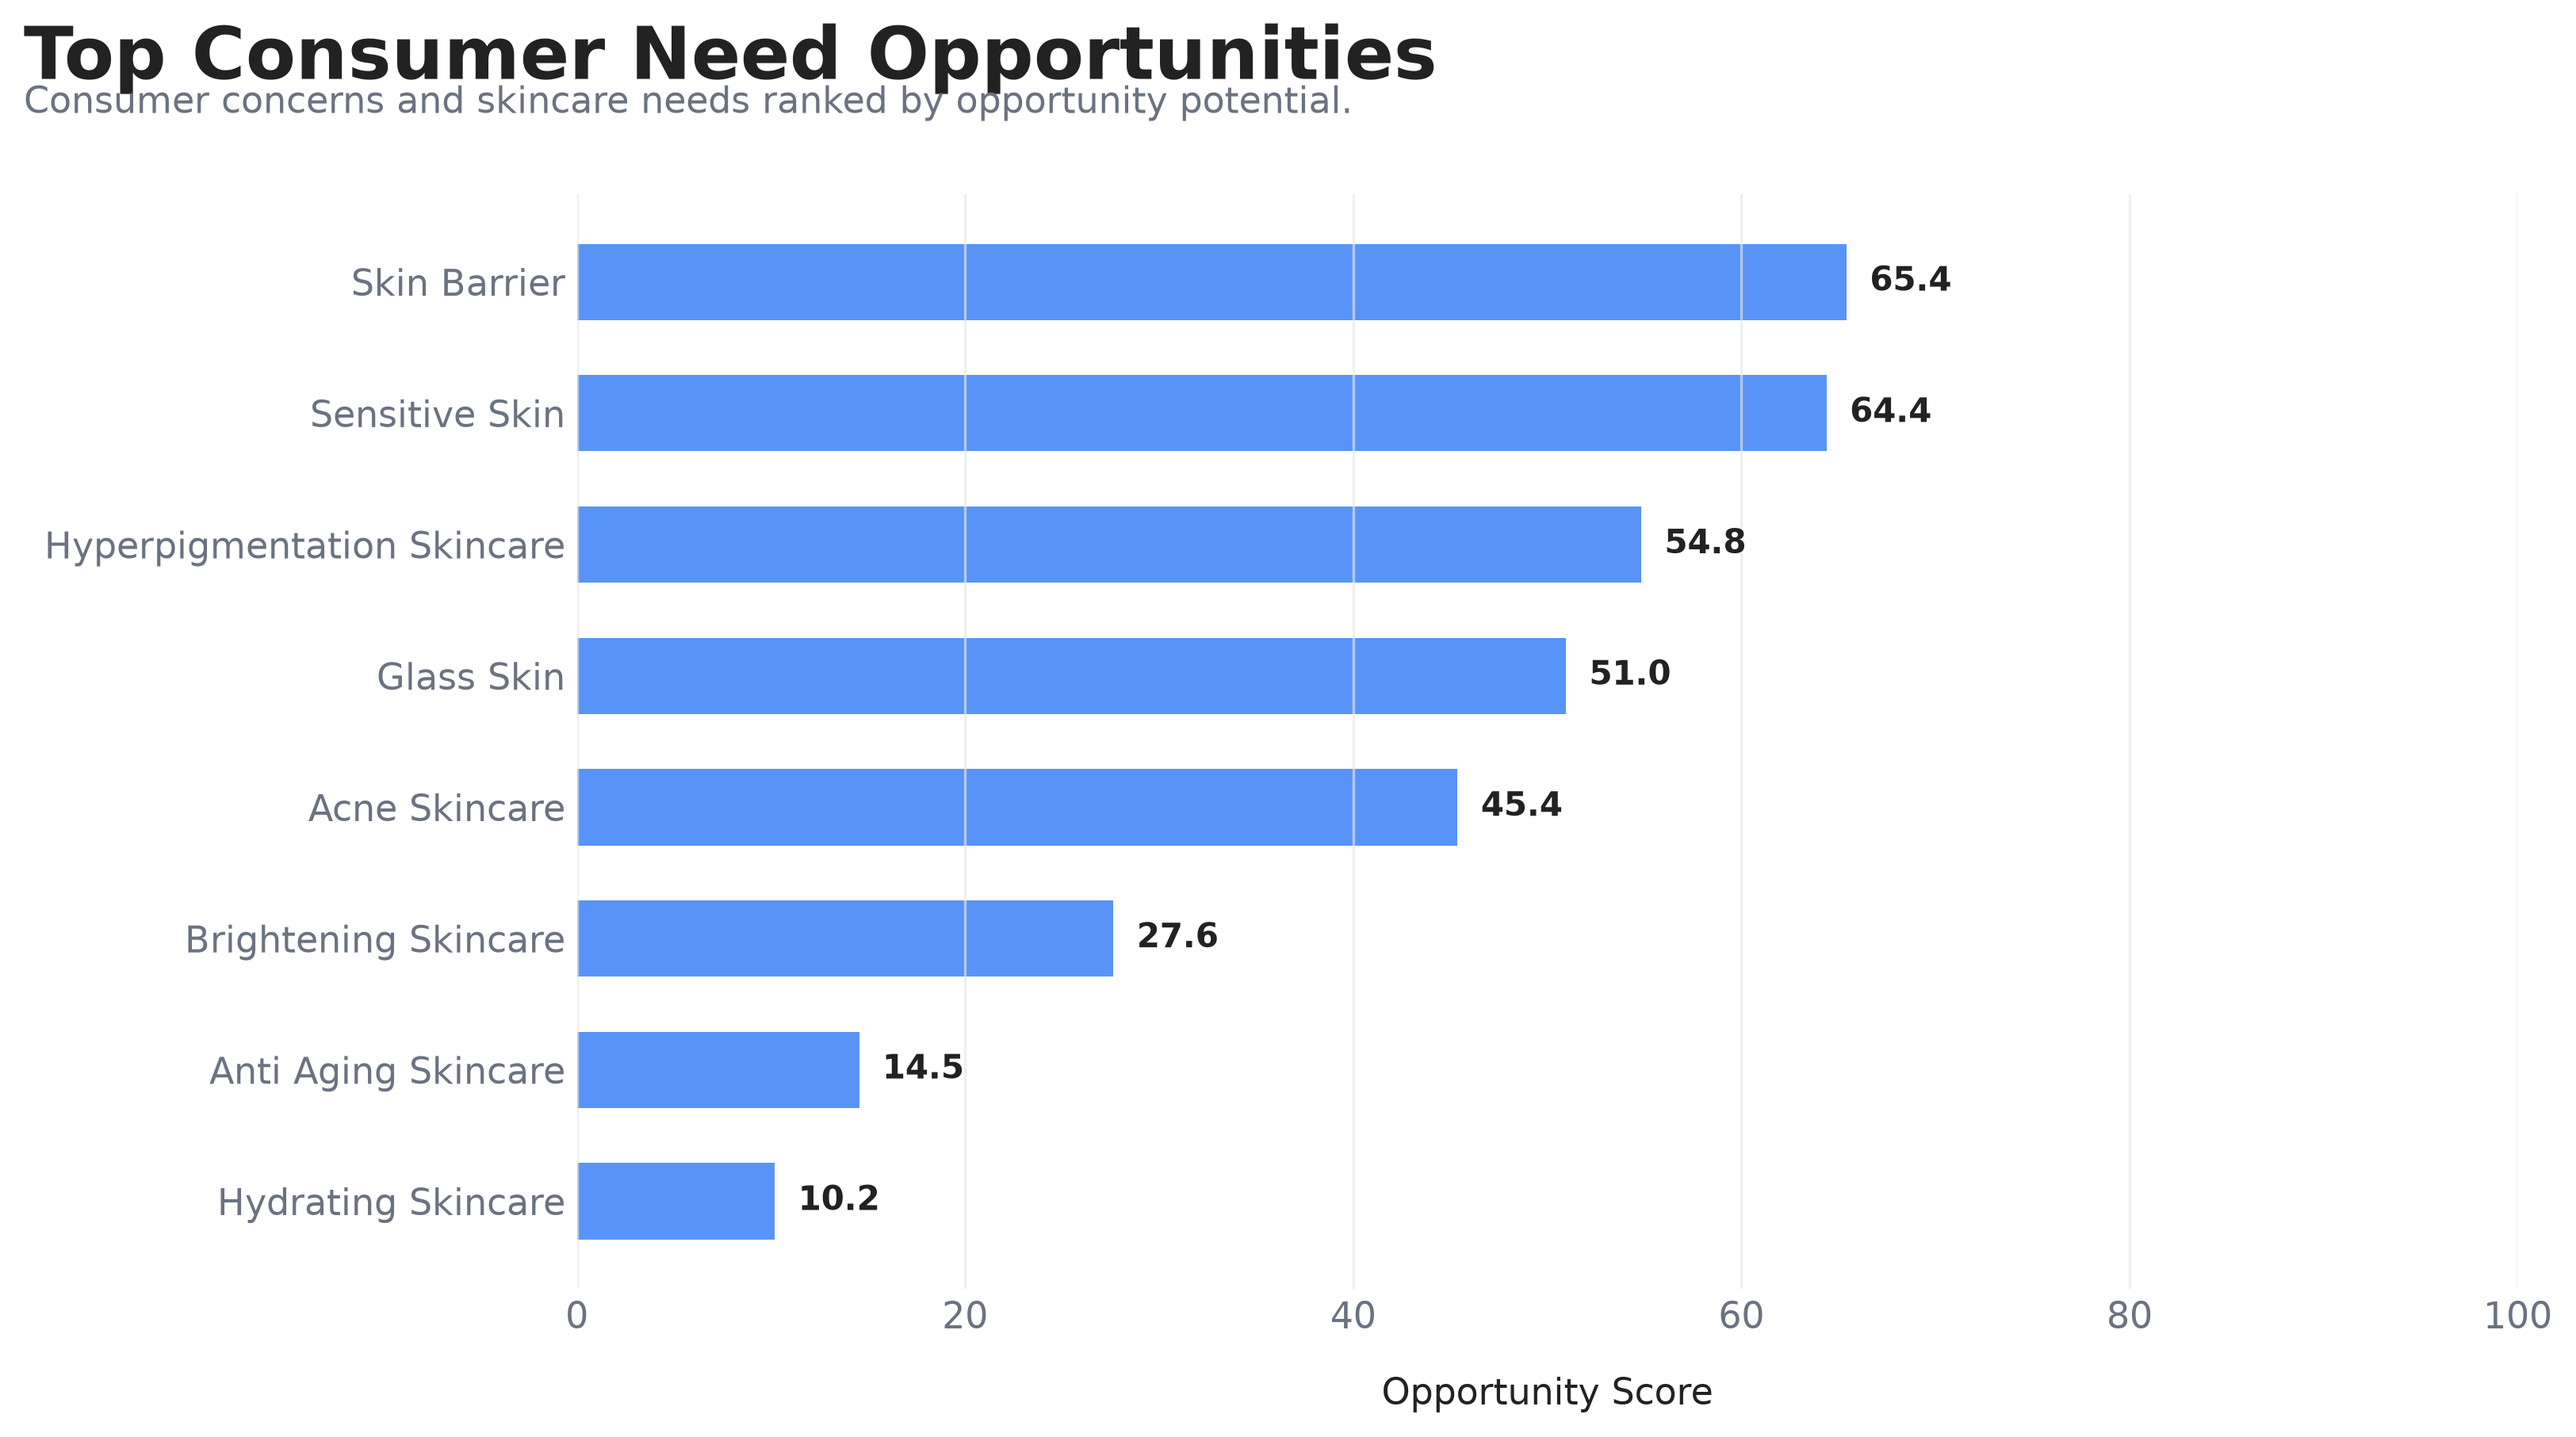
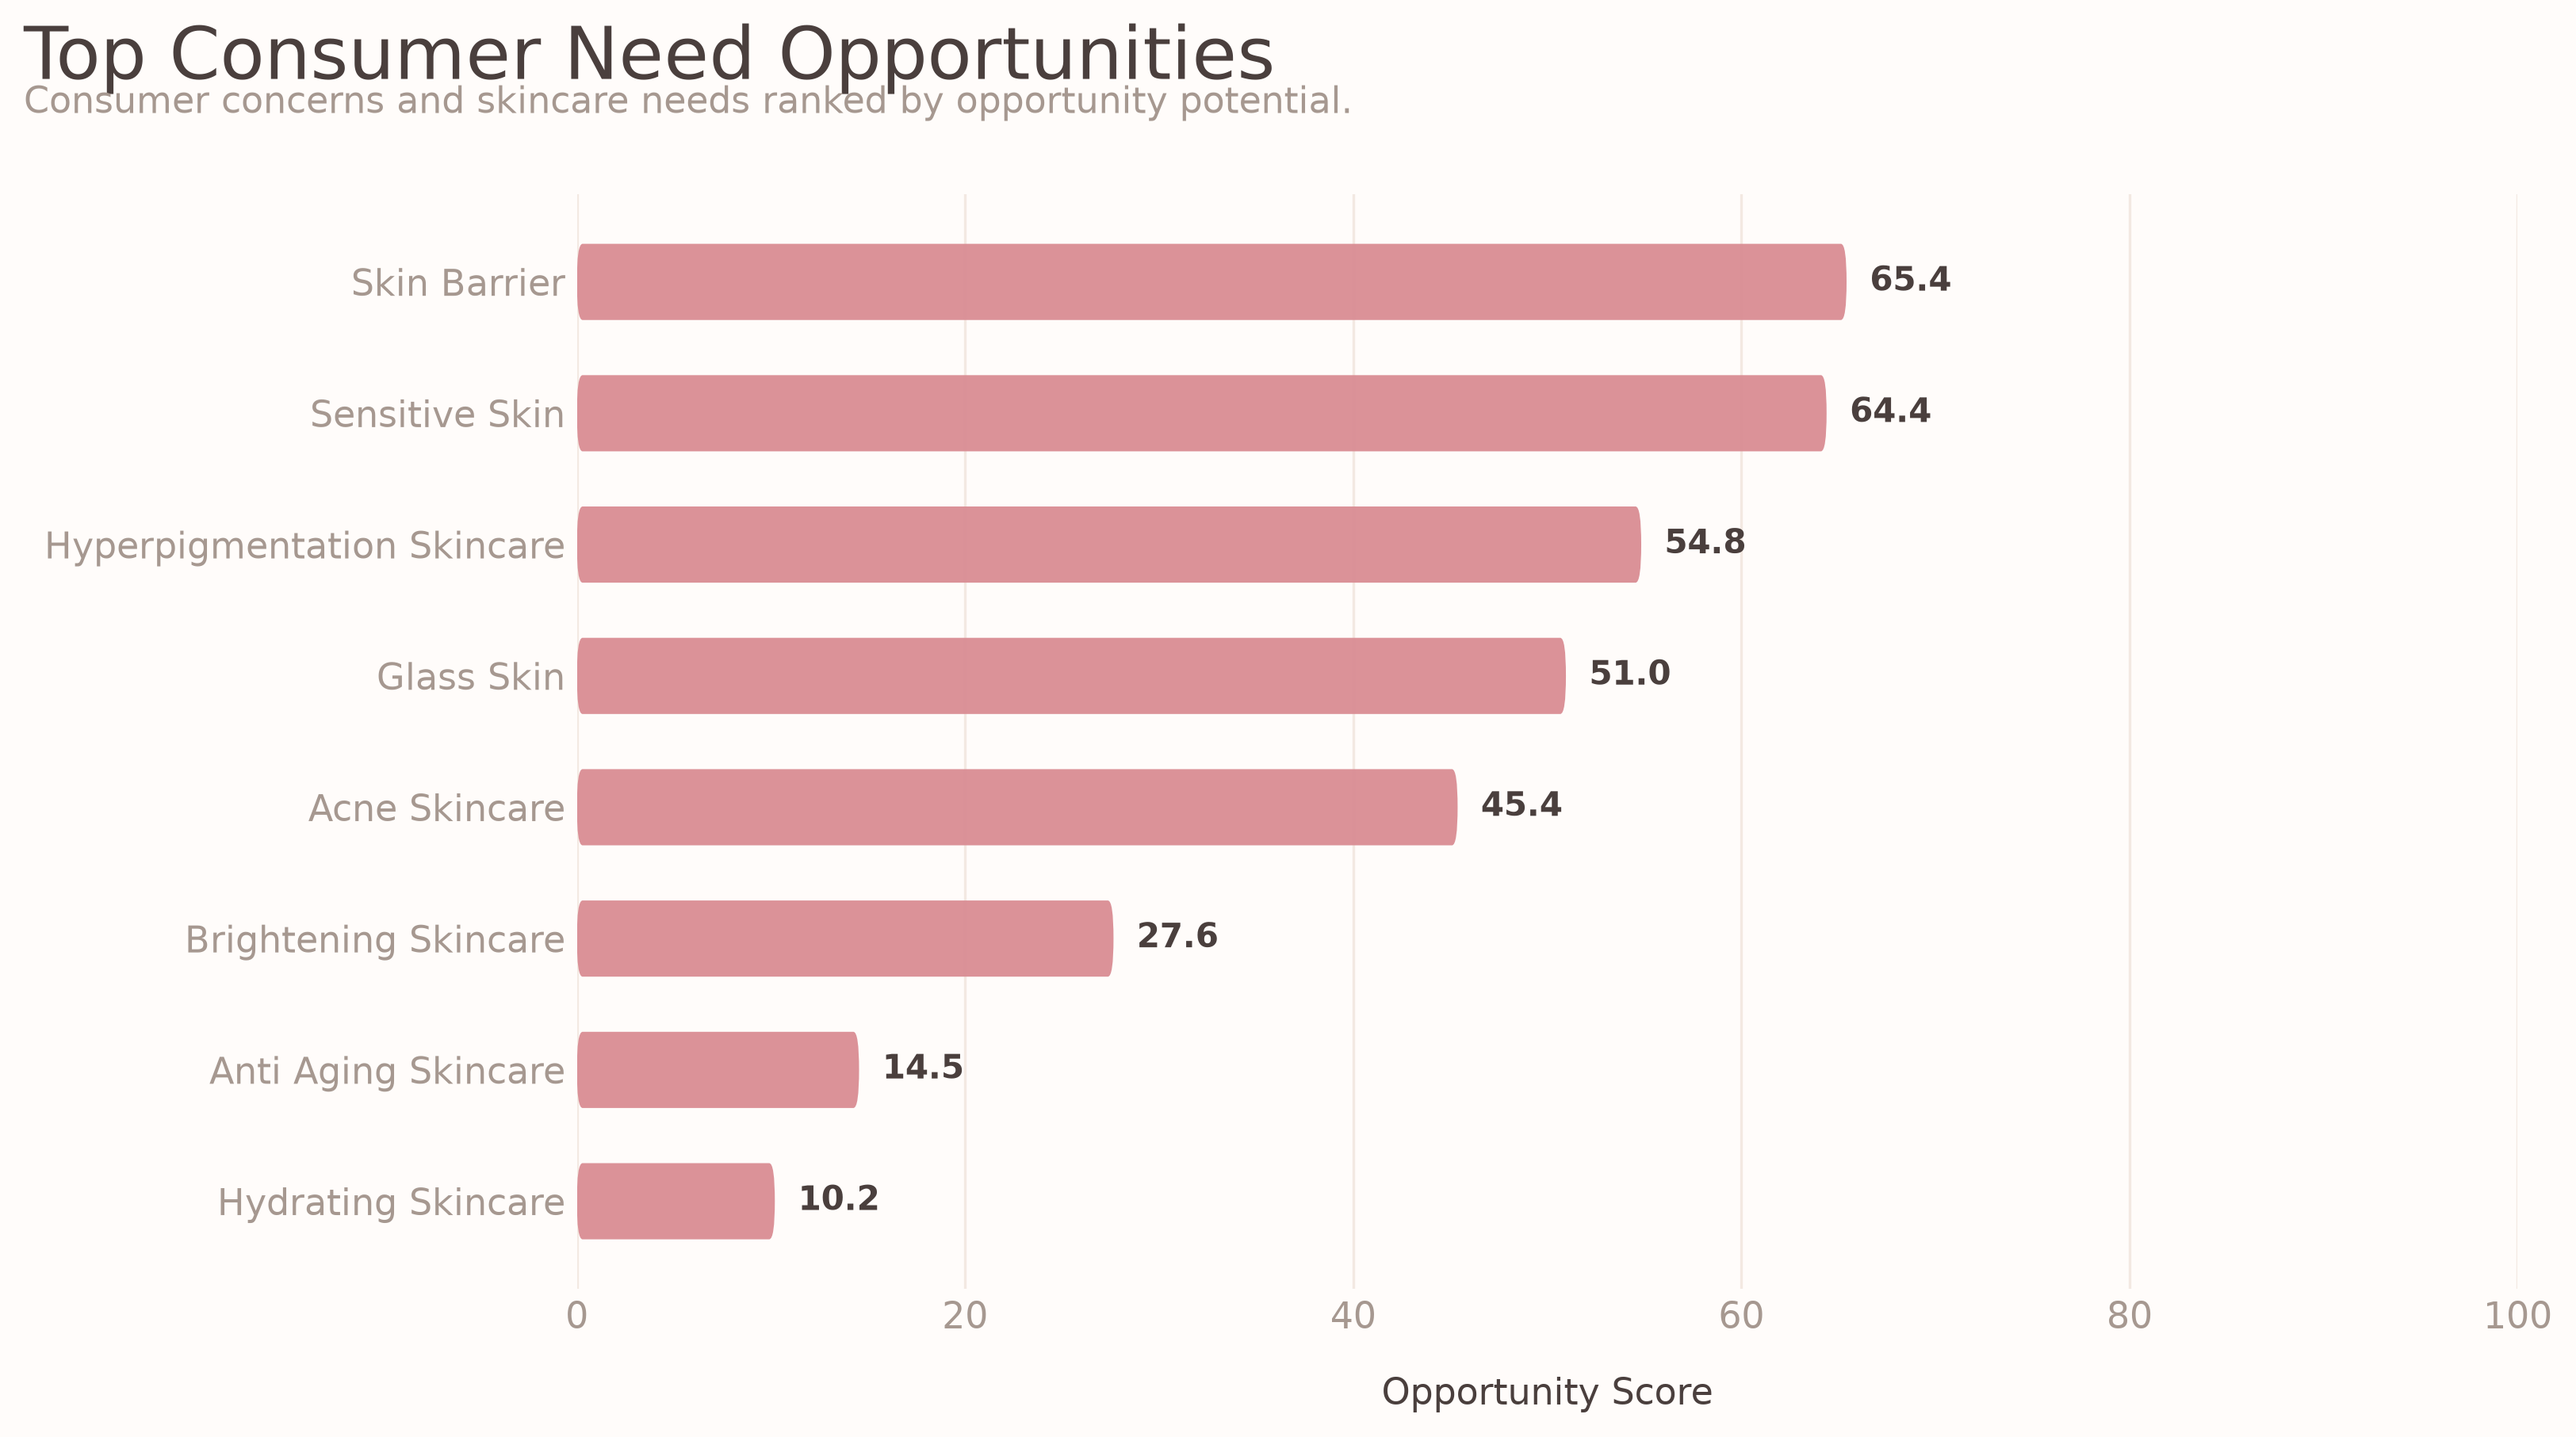
Improved visualizations

diff --git a/src/analysis/plotting.py b/src/analysis/plotting.py
@@ -1,6 +1,8 @@
 from pathlib import Path
 
 import matplotlib.pyplot as plt
+import matplotlib.font_manager as fm
+from matplotlib.patches import FancyBboxPatch
 
 
 # ============================================================
@@ -15,19 +17,38 @@ OUTPUT_DIR.mkdir(parents=True, exist_ok=True)
 
 
 # ============================================================
-# VISUAL DESIGN SYSTEM
+# FONTS
+# ============================================================
+# Lora (serif) for headlines - editorial, soft, not shouting.
+# Poppins (geometric sans) for everything else - clean and warm,
+# very common in beauty/lifestyle branding.
+
+FONT_TITLE = "Lora"
+FONT_BODY = "Poppins"
+
+_GOOGLE_FONTS_DIR = Path("/usr/share/fonts/truetype/google-fonts")
+
+for _font_file in ("Lora-Variable.ttf", "Poppins-Regular.ttf", "Poppins-Medium.ttf", "Poppins-Bold.ttf"):
+    _font_path = _GOOGLE_FONTS_DIR / _font_file
+    if _font_path.exists():
+        fm.fontManager.addfont(str(_font_path))
+
+
+# ============================================================
+# VISUAL DESIGN SYSTEM — soft K-beauty pastel
 # ============================================================
 
 COLORS = {
-    "consumer_need": "#4F8EF7",
-    "ingredient": "#F4A261",
-    "product_format": "#2A9D8F",
-    "highlight": "#E76F51",
-    "dark": "#222222",
-    "secondary": "#6B7280",
-    "grid": "#E5E7EB",
-    "light_background": "#F8FAFC",
-    "white": "#FFFFFF",
+    "consumer_need": "#D98C93",     # dusty rose
+    "ingredient": "#E3AD73",        # warm apricot
+    "product_format": "#93AD82",    # muted sage
+    "highlight": "#C3696A",         # deeper terracotta-rose, for emphasis
+    "neutral": "#D9C9BE",           # warm taupe, for non-emphasized bars
+    "dark": "#4A3F3D",              # warm charcoal (not pure black)
+    "secondary": "#A69890",         # warm gray for ticks/secondary text
+    "grid": "#EEE1D8",              # soft warm grid lines
+    "light_background": "#FBF3EE", # card/panel fill
+    "white": "#FFFCFA",             # near-white, warm figure background
 }
 
 CATEGORY_LABELS = {
@@ -52,10 +73,11 @@ def apply_project_style() -> None:
             "xtick.color": COLORS["secondary"],
             "ytick.color": COLORS["secondary"],
             "text.color": COLORS["dark"],
-            "font.family": "DejaVu Sans",
+            "font.family": "sans-serif",
+            "font.sans-serif": [FONT_BODY, "DejaVu Sans"],
             "font.size": 11,
             "axes.titlesize": 20,
-            "axes.titleweight": "bold",
+            "axes.titleweight": "regular",
             "axes.labelsize": 11,
             "axes.spines.top": False,
             "axes.spines.right": False,
@@ -63,11 +85,105 @@ def apply_project_style() -> None:
             "axes.spines.bottom": False,
             "axes.grid": True,
             "grid.color": COLORS["grid"],
-            "grid.alpha": 0.65,
+            "grid.alpha": 0.7,
             "grid.linewidth": 0.8,
             "legend.frameon": False,
         }
     )
+
+
+def draw_header(
+    fig,
+    title: str,
+    subtitle: str | None = None,
+    x: float = 0.07,
+    title_y: float = 0.965,
+    subtitle_y: float = 0.925,
+    title_size: float = 22,
+    subtitle_size: float = 11,
+) -> None:
+    """
+    Draw a consistent title (serif, Lora) + subtitle (sans, Poppins)
+    header used across every chart in the project.
+    """
+
+    fig.text(
+        x,
+        title_y,
+        title,
+        fontsize=title_size,
+        fontfamily=FONT_TITLE,
+        weight="normal",
+        color=COLORS["dark"],
+        ha="left",
+        va="top",
+    )
+
+    if subtitle:
+        fig.text(
+            x,
+            subtitle_y,
+            subtitle,
+            fontsize=subtitle_size,
+            fontfamily=FONT_BODY,
+            color=COLORS["secondary"],
+            ha="left",
+            va="top",
+        )
+
+
+def make_bars_rounded(ax, bars, colors) -> None:
+    """
+    Replace flat bar rectangles with soft, pill-shaped bars
+    (rounded on both ends) to match a softer visual style.
+    Keeps the original bar objects' position data intact for
+    any downstream label placement.
+    """
+
+    for bar, color in zip(bars, colors):
+
+        x0, y0 = bar.get_xy()
+        width = bar.get_width()
+        height = bar.get_height()
+
+        bar.set_visible(False)
+
+        radius = min(height / 2, max(abs(width) / 2, 0.01))
+
+        rounded = FancyBboxPatch(
+            (x0, y0),
+            width,
+            height,
+            boxstyle=f"round,pad=0,rounding_size={radius}",
+            linewidth=0,
+            facecolor=color,
+            alpha=0.95,
+            zorder=3,
+            mutation_aspect=1,
+        )
+
+        ax.add_patch(rounded)
+
+
+def rounded_card(ax, x, y, width, height, facecolor, edgecolor, radius=0.12, linewidth=1):
+    """
+    Draw a soft rounded-corner card (used in dashboard/summary charts)
+    instead of a sharp-cornered rectangle.
+    """
+
+    card = FancyBboxPatch(
+        (x, y),
+        width,
+        height,
+        boxstyle=f"round,pad=0,rounding_size={radius}",
+        facecolor=facecolor,
+        edgecolor=edgecolor,
+        linewidth=linewidth,
+    )
+
+    ax.add_patch(card)
+
+    return card
 
 
 def format_keyword(value: str) -> str:
@@ -89,7 +205,7 @@ def save_figure(fig, filename: str) -> Path:
         output_path,
         dpi=300,
         bbox_inches="tight",
-        facecolor="white",
+        facecolor=COLORS["white"],
     )
 
     plt.close(fig)

diff --git a/src/analysis/create_visualizations.py b/src/analysis/create_visualizations.py
@@ -7,7 +7,10 @@ from plotting import (
     COLORS,
     DATA_DIR,
     apply_project_style,
+    draw_header,
     format_keyword,
+    make_bars_rounded,
+    rounded_card,
     save_figure,
 )
 
@@ -97,6 +100,8 @@ def create_ranked_bar_chart(
         alpha=0.95,
     )
 
+    make_bars_rounded(ax, bars, colors)
+
     maximum_score = max(
         100,
         chart_df["opportunity_score"].max() * 1.18,
@@ -139,26 +144,7 @@ def create_ranked_bar_chart(
             color=COLORS["dark"],
         )
 
-    fig.text(
-        0.08,
-        0.965,
-        title,
-        fontsize=22,
-        weight="bold",
-        ha="left",
-        va="top",
-        color=COLORS["dark"],
-    )
-
-    fig.text(
-        0.08,
-        0.925,
-        subtitle,
-        fontsize=11,
-        ha="left",
-        va="top",
-        color=COLORS["secondary"],
-    )
+    draw_header(fig, title, subtitle, x=0.08)
 
     plt.tight_layout(rect=[0.07, 0.04, 0.98, 0.88])
 
@@ -182,7 +168,7 @@ create_ranked_bar_chart(
         "creator attention, and data reliability."
     ),
     filename="overall_ranking.png",
-    bar_color="#9CA3AF",
+    bar_color=COLORS["neutral"],
     max_items=15,
     highlight_top_three=True,
 )
@@ -272,24 +258,18 @@ ax.set_xlim(0, 14)
 ax.set_ylim(0, 8)
 ax.axis("off")
 
-fig.text(
-    0.07,
-    0.90,
+draw_header(
+    fig,
     "K-Beauty Product Opportunity Radar",
-    fontsize=25,
-    weight="bold",
-    color=COLORS["dark"],
-)
-
-fig.text(
-    0.07,
-    0.845,
     (
         "A multi-source consumer signal analysis using "
         "Naver DataLab, Google Trends, and YouTube."
     ),
-    fontsize=12,
-    color=COLORS["secondary"],
+    x=0.07,
+    title_y=0.90,
+    subtitle_y=0.845,
+    title_size=25,
+    subtitle_size=12,
 )
 
 cards = [
@@ -345,16 +325,16 @@ for index, category in enumerate(CATEGORY_LABELS):
 
 for card in cards:
 
-    rectangle = plt.Rectangle(
-        (card["x"], card["y"]),
+    rounded_card(
+        ax,
+        card["x"],
+        card["y"],
         card["width"],
         card["height"],
         facecolor=COLORS["light_background"],
         edgecolor=COLORS["grid"],
-        linewidth=1,
+        radius=0.14,
     )
-
-    ax.add_patch(rectangle)
 
     ax.text(
         card["x"] + 0.25,

diff --git a/src/analysis/create_opportunity_map.py b/src/analysis/create_opportunity_map.py
@@ -7,6 +7,7 @@ from plotting import (
     COLORS,
     DATA_DIR,
     apply_project_style,
+    draw_header,
     format_keyword,
     save_figure,
 )
@@ -101,7 +102,7 @@ ax.axvspan(
     x_mid,
     ymin=0,
     ymax=(y_mid - y_min) / (y_max - y_min),
-    color="#F8FAFC",
+    color="#F7F1EC",
     alpha=1,
     zorder=0,
 )
@@ -111,8 +112,8 @@ ax.axvspan(
     x_mid,
     ymin=(y_mid - y_min) / (y_max - y_min),
     ymax=1,
-    color="#FFF7ED",
-    alpha=0.75,
+    color="#FDF1E6",
+    alpha=0.85,
     zorder=0,
 )
 
@@ -121,8 +122,8 @@ ax.axvspan(
     x_max,
     ymin=0,
     ymax=(y_mid - y_min) / (y_max - y_min),
-    color="#EFF6FF",
-    alpha=0.75,
+    color="#F3E7E0",
+    alpha=0.85,
     zorder=0,
 )
 
@@ -131,8 +132,8 @@ ax.axvspan(
     x_max,
     ymin=(y_mid - y_min) / (y_max - y_min),
     ymax=1,
-    color="#ECFDF5",
-    alpha=0.85,
+    color="#FBEAEA",
+    alpha=0.9,
     zorder=0,
 )
 
@@ -222,7 +223,7 @@ adjust_text(
     force_points=(0.3, 0.4),
     arrowprops={
         "arrowstyle": "-",
-        "color": "#9CA3AF",
+        "color": COLORS["secondary"],
         "linewidth": 0.8,
         "alpha": 0.8,
     },
@@ -281,28 +282,15 @@ ax.text(
 # TITLES AND LABELS
 # ============================================================
 
-fig.text(
-    0.07,
-    0.965,
+draw_header(
+    fig,
     "K-Beauty Opportunity Map",
-    fontsize=24,
-    weight="bold",
-    color=COLORS["dark"],
-    ha="left",
-    va="top",
-)
-
-fig.text(
-    0.07,
-    0.925,
     (
         "Higher and further right indicates stronger momentum "
         "and greater current consumer interest."
     ),
-    fontsize=11,
-    color=COLORS["secondary"],
-    ha="left",
-    va="top",
+    x=0.07,
+    title_size=24,
 )
 
 ax.set_xlabel(
